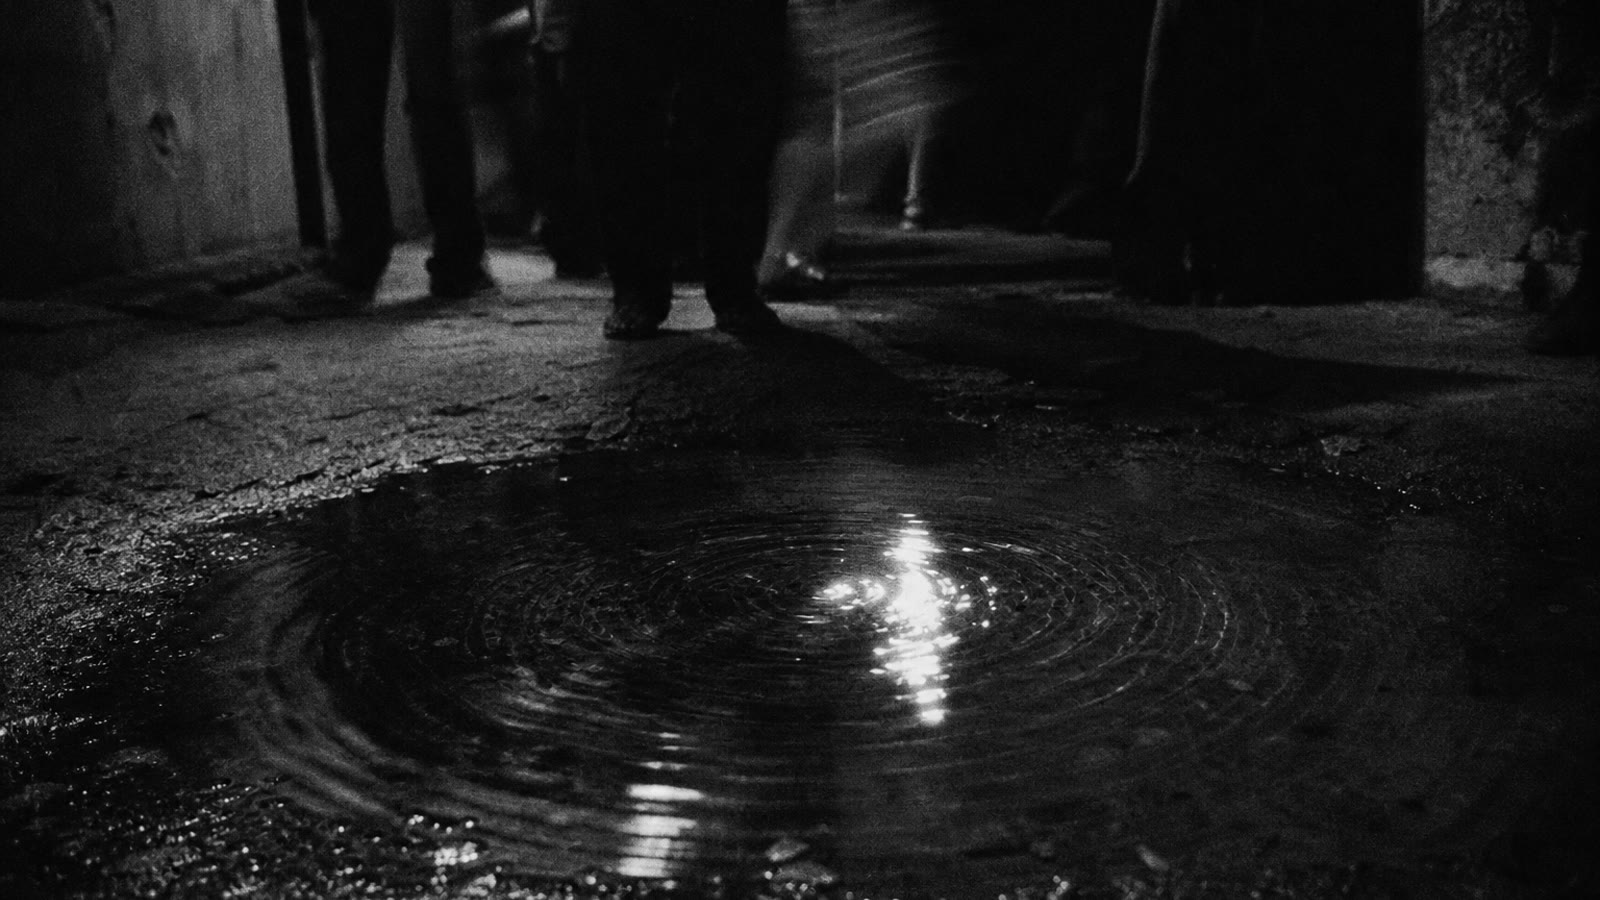
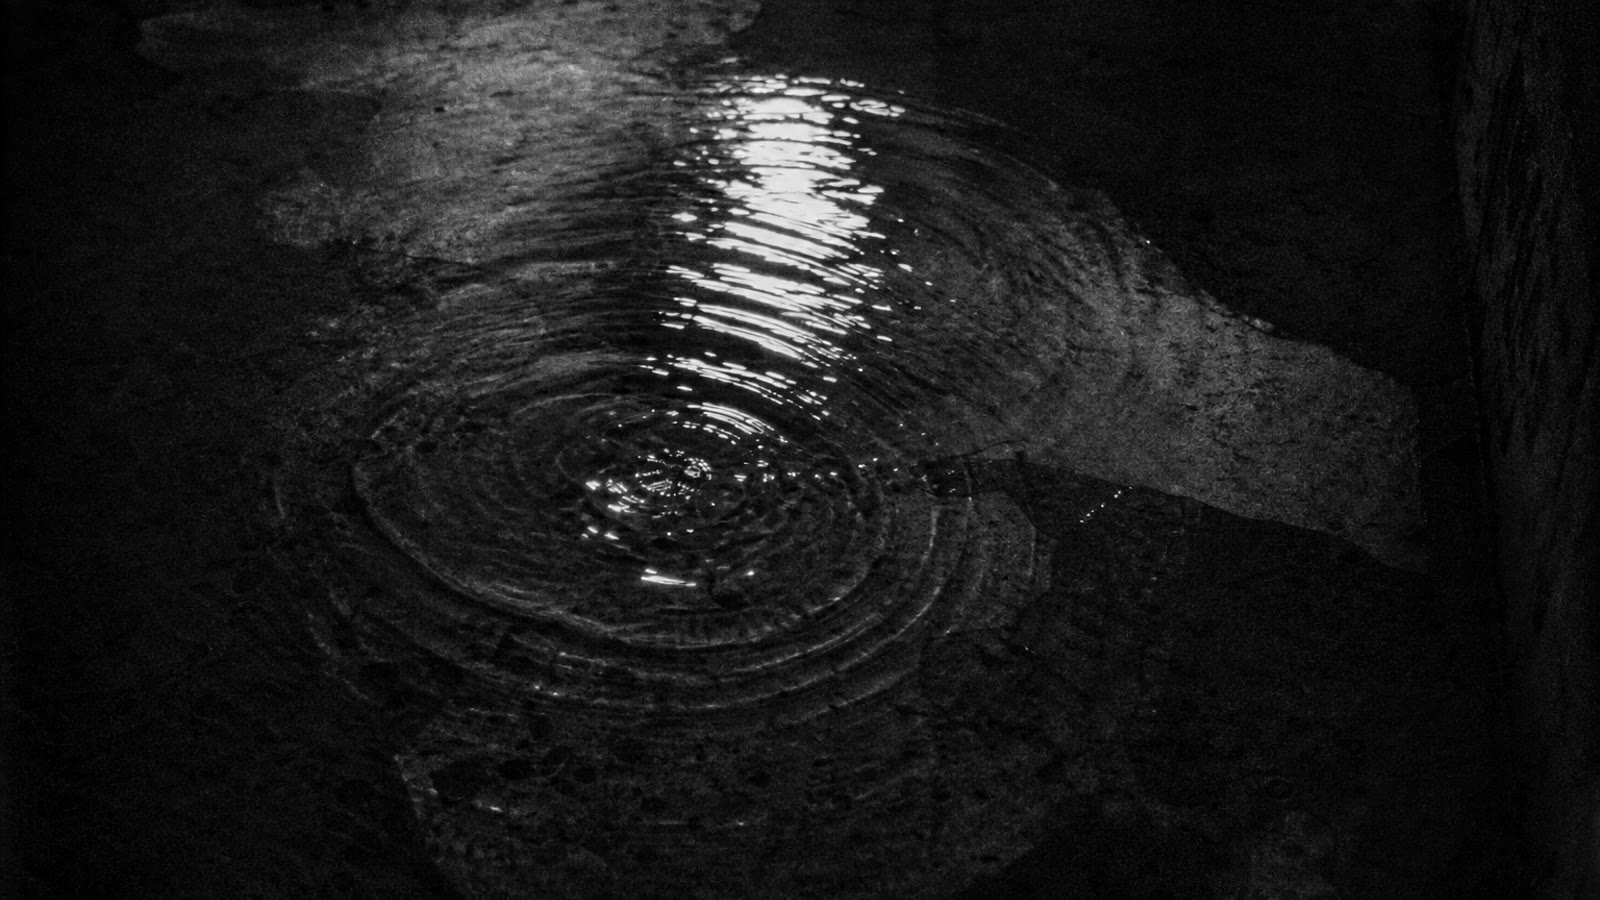
Overclock projections, Act II: the theme is a flood, not a club
The night is a flood rising through the empty power station: a leak down the
wall, the stairwell going under, a black sheet of water across the hall, rebar,
under the surface when the floor gives way, the surge at the peak. Club stills
(shadows, speakers, haze, strobe figure) replaced; the BODIES count is a water
LEVEL; the floor grid swells as the water rises.

Claude-Session: https://claude.ai/code/session_011iHnJPpzucoPhX8xsW8N6F

diff --git a/apps/overclock-video/act-ii.js b/apps/overclock-video/act-ii.js
@@ -1,25 +1,24 @@
 // ACT II — THE FLOOR.
 // One figure in an empty power-station hall at midnight (the 303 alone, lit by
-// its own accents). The kick brings feet on concrete; the hats bring a
-// stairwell and a door with light behind it; then the crowd, bodies,
-// hands — a count of bodies climbing in the corner and the clock running
-// through the night. The floor cracks. At bar 81 the kick drops out and the
-// floor gives way: weightless, water, birds. The kick's return at 89 is the
-// one peak — the count reads 1, everyone one body. Then dawn in the high
-// windows, people leaving by the stairs, and the figure alone again,
-// walking toward a doorway of light as the voice fades. No crowd shots: the
-// night is told by the room and the traces of bodies — shadows on concrete,
-// the speaker stack, beams in haze, one strobe-frozen silhouette (2026-10-08).
+// its own accents). Then the building takes on water through the night: a drip,
+// a leak down the wall, ripples, the stairwell going under, a black sheet of
+// water across the hall — the clock runs through the night and a water level
+// climbs in the corner. The floor cracks. At bar 81 the kick drops out and the
+// floor gives way: under the surface, weightless, birds. The kick's return at 89
+// is the surge, the one peak. Then dawn on the water, the stairs, the door, and
+// the figure walking out toward the light as the voice fades.
+// (Crowd shots read as a football match; club imagery wasn't it either — the
+// theme is a flood, 2026-10-08.)
 //
-// The grid is the floor: a perspective plane that pulses with the kick,
-// cracks, falls away at 81, and slams back at 89.
+// The grid is the floor: a perspective plane that pulses with the kick, takes
+// on a swell as the water rises, cracks, falls away at 81 and slams back at 89.
 const CLOCK = [[0, 23 * 60 + 58], [16, 24 * 60 + 9], [48, 25 * 60 + 40], [80, 27 * 60 + 55], [88, 28 * 60 + 33], [112, 30 * 60 + 49], [128, 31 * 60 + 41]]; // bar → minutes since midnight-1
-const BODIES = [[0, 1], [16, 1], [32, 9], [48, 64], [64, 212], [80, 412], [96, 412], [112, 38], [120, 1], [128, 1]];
+const LEVEL = [[0, 0], [16, 0.02], [32, 0.15], [48, 0.6], [64, 1.4], [80, 2.2], [88, 2.2], [96, 3.1], [104, 2.0], [112, 0.9], [128, 0.4]]; // metres of water
 const interp = (K, bar) => { for (let i = 1; i < K.length; i++) if (bar <= K[i][0]) return K[i - 1][1] + (K[i][1] - K[i - 1][1]) * (bar - K[i - 1][0]) / (K[i][0] - K[i - 1][0]); return K[K.length - 1][1]; };
 
 defineAct({
   id: 'act-ii', number: 'II', title: 'THE FLOOR',
-  stills: { hall: '01-hall', feet: '02-feet', stairs: '03-stairs', door: '04-door', shadows: '05-shadows', speakers: '06-speakers', haze: '07-haze', crack: '08-crack', water: '09-water', birds: '10-birds', beam: '11-beam', morning: '12-morning', figure: '13-figure', condensation: '14-condensation', ripples: '15-ripples' },
+  stills: { hall: '01-hall', feet: '02-feet', stairs: '03-stairs', door: '04-door', leak: '05-leak', 'flooded-hall': '06-flooded-hall', 'flooded-stairs': '07-flooded-stairs', crack: '08-crack', water: '09-water', birds: '10-birds', beam: '11-beam', morning: '12-morning', underwater: '13-underwater', condensation: '14-condensation', ripples: '15-ripples', surge: '16-surge', rebar: '17-rebar' },
   acid: { onsets: [0, 1, 2, 3, 4, 6, 7, 8, 9, 10, 12, 13, 14, 15], accents: [0, 3, 6, 9, 12] },
   minFloor: 0.28, // pictures stay readable between kicks
   fadeIn: 1.5, fadeOut: [233, 240.5],
@@ -29,22 +28,22 @@ defineAct({
     { at: 0, still: 'hall', light: 'acid', floor: 0.06, level: 0.95, zoom: [1.0, 1.4], pan: [0, 0.12], panY: [0, 0.3], contrast: 1.3, grid: { alpha: 0.18 } },
     { at: 16, still: 'feet', light: 'kick', floor: 0.1, zoom: [1.12, 1.0], grid: { alpha: 0.5 }, flash: { list: ['hall'], prob: 0.15 } },
     { at: 20, still: 'hall', light: 'kick', floor: 0.1, zoom: [1.4, 1.5], pan: [0.12, 0.14], panY: [0.3, 0.35], grid: { alpha: 0.45 } },
-    { at: 24, still: 'stairs', mode: 'raster', light: 'kick', floor: 0.12, zoom: [1.0, 1.22], flash: { list: ['shadows'], prob: 0.12, frames: 1 }, grid: { alpha: 0.3 } },
-    { at: 28, still: 'door', light: 'kick', floor: 0.12, zoom: [1.0, 1.35], pan: [0, 0.25], panY: [0, -0.2], flash: { list: ['shadows', 'haze'], prob: 0.22, frames: 1 }, glitch: 0.15, grid: { alpha: 0.3 } },
-    // Inside: the room, and the bodies only as shadows and one silhouette.
-    { at: 32, still: 'haze', light: 'kick', floor: 0.14, zoom: [1.0, 1.14], flash: { list: ['shadows', 'speakers'], prob: 0.25 }, glitch: 0.25, grid: { alpha: 0.4 } },
-    { at: 40, still: 'shadows', mode: 'raster', light: 'kick', floor: 0.12, zoom: [1.0, 1.18], pan: [-0.3, 0.3], flash: { list: ['figure', 'haze'], prob: 0.3 }, glitch: 0.3, grid: { alpha: 0.35 } },
-    { at: 48, montage: { list: ['speakers', 'figure'], every: 'half' }, modes: { list: ['photo', 'raster'], every: 'bar' }, light: 'kick', floor: 0.15, glitch: 0.35, grid: { alpha: 0.4 } },
-    { at: 56, montage: { list: ['shadows', 'speakers', 'figure'], every: 'beat' }, mode: 'threshold', light: 'kick', floor: 0.2, glitch: 0.45, grid: { alpha: 0.45 } },
-    { at: 64, montage: { list: ['haze', 'shadows', 'figure', 'feet'], every: 'beat' }, modes: { list: ['photo', 'dither'], every: '2bar' }, light: 'kick', floor: 0.18, flash: { list: ['crack'], prob: 0.25, mode: 'threshold' }, glitch: 0.5, grid: { alpha: 0.5, crack: 0.4 } },
-    { at: 72, montage: { list: ['crack', 'ripples', 'condensation', 'shadows'], every: 'bar' }, light: 'kick', floor: 0.2, zoom: [1.0, 1.2], glitch: 0.6, grid: { alpha: 0.55, crack: 1, shake: 1 } },
+    { at: 24, still: 'stairs', mode: 'raster', light: 'kick', floor: 0.12, zoom: [1.0, 1.22], flash: { list: ['condensation'], prob: 0.12, frames: 1 }, grid: { alpha: 0.3 } },
+    { at: 28, still: 'door', light: 'kick', floor: 0.12, zoom: [1.0, 1.35], pan: [0, 0.25], panY: [0, -0.2], flash: { list: ['leak', 'ripples'], prob: 0.22, frames: 1 }, glitch: 0.15, grid: { alpha: 0.3 } },
+    // The water comes in.
+    { at: 32, still: 'leak', light: 'kick', floor: 0.14, zoom: [1.0, 1.14], flash: { list: ['condensation', 'ripples'], prob: 0.25 }, glitch: 0.25, grid: { alpha: 0.4 } },
+    { at: 40, still: 'flooded-stairs', mode: 'raster', light: 'kick', floor: 0.12, zoom: [1.0, 1.18], flash: { list: ['leak', 'ripples'], prob: 0.3 }, glitch: 0.3, grid: { alpha: 0.35 } },
+    { at: 48, montage: { list: ['flooded-hall', 'leak'], every: 'half' }, modes: { list: ['photo', 'raster'], every: 'bar' }, light: 'kick', floor: 0.15, glitch: 0.35, grid: { alpha: 0.4 } },
+    { at: 56, montage: { list: ['ripples', 'flooded-stairs', 'condensation'], every: 'beat' }, mode: 'threshold', light: 'kick', floor: 0.2, glitch: 0.45, grid: { alpha: 0.45 } },
+    { at: 64, montage: { list: ['flooded-hall', 'rebar', 'leak', 'feet'], every: 'beat' }, modes: { list: ['photo', 'dither'], every: '2bar' }, light: 'kick', floor: 0.18, flash: { list: ['crack'], prob: 0.25, mode: 'threshold' }, glitch: 0.5, grid: { alpha: 0.5, crack: 0.4 } },
+    { at: 72, montage: { list: ['crack', 'rebar', 'ripples', 'flooded-hall'], every: 'bar' }, light: 'kick', floor: 0.2, zoom: [1.0, 1.2], glitch: 0.6, grid: { alpha: 0.55, crack: 1, shake: 1 } },
     // The floor gives way.
-    { at: 80, still: 'water', light: 'steady', level: 0.95, zoom: [1.0, 1.18], contrast: 1.15, grid: { fall: true } },
+    { at: 80, still: 'underwater', light: 'steady', level: 0.95, zoom: [1.0, 1.18], contrast: 1.15, grid: { fall: true } },
     { at: 84, still: 'birds', light: 'steady', level: 1.0, zoom: [1.0, 1.12], panY: [0.2, -0.2], contrast: 1.1 },
     { at: 86, still: 'water', mode: 'dither', light: 'steady', level: 0.9, zoom: [1.3, 1.0] },
-    // It comes back: one body.
-    { at: 88, montage: { list: ['figure', 'shadows', 'speakers', 'haze'], every: 'beat' }, modes: { list: ['threshold', 'photo'], every: 'beat' }, light: 'kick', floor: 0.3, level: 1.3, glitch: 0.85, grid: { alpha: 0.8, slam: true } },
-    { at: 96, still: 'beam', light: 'kick', floor: 0.2, zoom: [1.0, 1.18], flash: { list: ['shadows', 'figure'], prob: (f) => 0.3 * (1 - (f.bar - 96) / 8), frames: 1 }, glitch: 0.2, grid: { alpha: 0.3 } },
+    // It comes back: the surge.
+    { at: 88, montage: { list: ['surge', 'flooded-hall', 'underwater', 'surge'], every: 'beat' }, modes: { list: ['threshold', 'photo'], every: 'beat' }, light: 'kick', floor: 0.3, level: 1.3, glitch: 0.85, grid: { alpha: 0.8, slam: true } },
+    { at: 96, still: 'beam', light: 'kick', floor: 0.2, zoom: [1.0, 1.18], flash: { list: ['surge', 'underwater'], prob: (f) => 0.3 * (1 - (f.bar - 96) / 8), frames: 1 }, glitch: 0.2, grid: { alpha: 0.3 } },
     { at: 104, still: 'morning', light: 'kick', floor: 0.25, zoom: [1.0, 1.15], glitch: 0.1, grid: { alpha: 0.25 } },
     { at: 112, still: 'stairs', mode: 'raster', light: 'kick', floor: 0.15, zoom: [1.22, 1.0], grid: { alpha: 0.2 } },
     { at: 116, still: 'door', light: 'kick', floor: 0.15, zoom: [1.35, 1.0], grid: { alpha: 0.2 } },
@@ -75,6 +74,8 @@ defineAct({
     g.translate(vx + shake, hy + drop); g.rotate(tilt); g.translate(-vx, -hy);
     g.strokeStyle = `rgba(255,255,255,${alpha * lit})`; g.lineWidth = 1.2;
     const crack = gr.crack || 0, rng = H.rng(Math.floor(f.beat), 21);
+    // The swell: cross lines bend into a slow wave as the water rises.
+    const swell = Math.min(1, interp(LEVEL, f.bar) / 2.2) * 7;
     g.beginPath();
     for (let i = -14; i <= 14; i++) { // lines running to the vanishing point
       const xb = vx + i * w * 0.11;
@@ -85,23 +86,26 @@ defineAct({
     for (let k = 0; k < 14; k++) { // cross lines, drifting toward the viewer
       const z = 1 + (k + 1 - scroll) * 0.9, y = hy + (h - hy) / z;
       if (crack && rng() < crack * 0.3) { const xs = rng() * w; g.moveTo(0, y); g.lineTo(xs, y); g.moveTo(xs, y + 4 * crack); g.lineTo(w, y + 4 * crack); }
-      else { g.moveTo(0, y); g.lineTo(w, y); }
+      else if (swell > 0.3) {
+        g.moveTo(0, y);
+        for (let x = 0; x <= w; x += 24) g.lineTo(x, y + Math.sin(x * 0.012 + f.t * 1.4 + k) * swell * (1 / z));
+      } else { g.moveTo(0, y); g.lineTo(w, y); }
     }
     g.stroke();
     g.restore();
   },
 
-  // The night as two readouts: a clock and a count of bodies.
+  // The night as two readouts: a clock and the water level.
   over(o, f, shot, H) {
     if (f.bar < 2) return;
     const lost = f.bar >= 80 && f.bar < 88;
     const m = Math.floor(interp(CLOCK, f.bar)) % (24 * 60);
     const clock = lost ? (Math.floor(f.beat) % 2 ? '--:--' : '  :  ') : `${String(Math.floor(m / 60)).padStart(2, '0')}:${String(m % 60).padStart(2, '0')}`;
     H.text({ str: clock, x: 0.955, y: 0.93, size: 30, align: 'right', alpha: 0.8 });
-    const one = f.bar >= 88 && f.bar < 96;
-    const n = Math.round(interp(BODIES, f.bar));
-    const bodies = lost ? 'BODIES ---' : one ? 'BODIES 1' : `BODIES ${String(n).padStart(3, '0')}`;
-    if (!one || f.kickEnv > 0.2) H.text({ str: bodies, x: 0.045, y: 0.93, size: 16, alpha: 0.6 });
+    const level = interp(LEVEL, f.bar);
+    const surge = f.bar >= 88 && f.bar < 96;
+    const label = lost ? 'LEVEL  --- M' : `LEVEL  ${level.toFixed(2)} M`;
+    if (!surge || f.kickEnv > 0.2) H.text({ str: label, x: 0.045, y: 0.93, size: 16, alpha: 0.6 });
   },
 
   glitch(f) {

diff --git a/apps/overclock-video/README.md b/apps/overclock-video/README.md
@@ -8,7 +8,7 @@ its own photographs and its own drawn layer.
 | Act | Track | Story | Drawn layer |
 |---|---|---|---|
 | I — SIGNAL | `overclock-i.mjs`, A minor, the rolling off-beat bass | A transmission leaves a radio mast in fog, crosses the city (pylons, substation, street, cable tunnel, server hall) looking for a receiver, finds a sleeper while the hats are out, the eye opens at the peak (RECEIVED), and the path runs backwards to the mast at dawn as the bass leaves | The signal as a dot on a hairline route across the bottom, one tick per place: it pulses with the bass, reaches the far end at the peak and sends a ring out on every kick, travels back during the close, blinks with the kick at home; a TV test band down the right edge slips and tears on the accents. (The first cut drew the bass as an oscilloscope trace — too literal.) |
-| II — THE FLOOR | `overclock-ii.mjs`, D minor, the voice alone to open and close | One figure in an empty power-station hall at midnight; feet, a stairwell, a door with light behind it; inside, the night told by the room and the traces of bodies — beams in haze, dancers' shadows on concrete, the speaker stack, one strobe-frozen silhouette, condensation, ripples in a puddle (no crowd shots: they read as a football match); the floor cracks; at bar 81 it gives way (water, birds, weightless); the kick's return is the peak; dawn, the figure alone walking into the light | A perspective floor grid that pulses on the kick, cracks, falls away at 81 and slams back at 89; a clock running 23:58 → 07:41 and a count of BODIES that reads 1 at the peak |
+| II — THE FLOOR | `overclock-ii.mjs`, D minor, the voice alone to open and close | One figure in an empty power-station hall at midnight; then the building takes on water through the night — a drip, a leak down the wall, ripples, the stairwell going under, a black sheet of water across the hall, broken rebar; the floor cracks; at bar 81 it gives way (under the surface, weightless, birds); the kick's return is the surge, the one peak; dawn on the water, the figure walking out into the light. (Crowd shots read as a football match and club imagery wasn't it either — 2026-10-08.) | A perspective floor grid that pulses on the kick, swells as the water rises, cracks, falls away at 81 and slams back at 89; a clock running 23:58 → 07:41 and a water LEVEL climbing to 3.10 m at the surge |
 | III — OVERCLOCK | `overclock.mjs`, E minor, the original track | A machine pushed past its rating: a clock mechanism and a quartz crystal keep time, the silicon arrives with the 303, the breakdown is the machine throttling itself (the fan stalls), the long climb is heat (coil, moth on a bulb, molten metal), it trips at the peak, and ends in smoke, ash and one ember | A clock ring whose hand steps more ticks per kick as the clock speed rises and flies apart at the trip; CLK / VCORE / TEMP / FAN readouts driven by the filter sweep; heat shimmer growing with it |
 
 Cuts, flashes and glitches follow the music exactly, from the score each song script already
@@ -16,7 +16,7 @@ knows: every kick, hat and acid note, the accents, the sections, and the sweep `
 
 ## Files
 
-- `stills.mjs` — the photographs, 12 per act (15 for Act II), from OpenAI `gpt-image-2` with a shared
+- `stills.mjs` — the photographs, 12 per act (17 for Act II), from OpenAI `gpt-image-2` with a shared
   house style (pushed Tri-X, crushed blacks, no faces that could be anyone in particular, no text),
   cropped to 16:9 and stored greyscale in `stills/<act>/` (committed: regenerating costs about
   $0.06 a picture and is not deterministic). `node stills.mjs act-ii --only crowd` redoes one.
